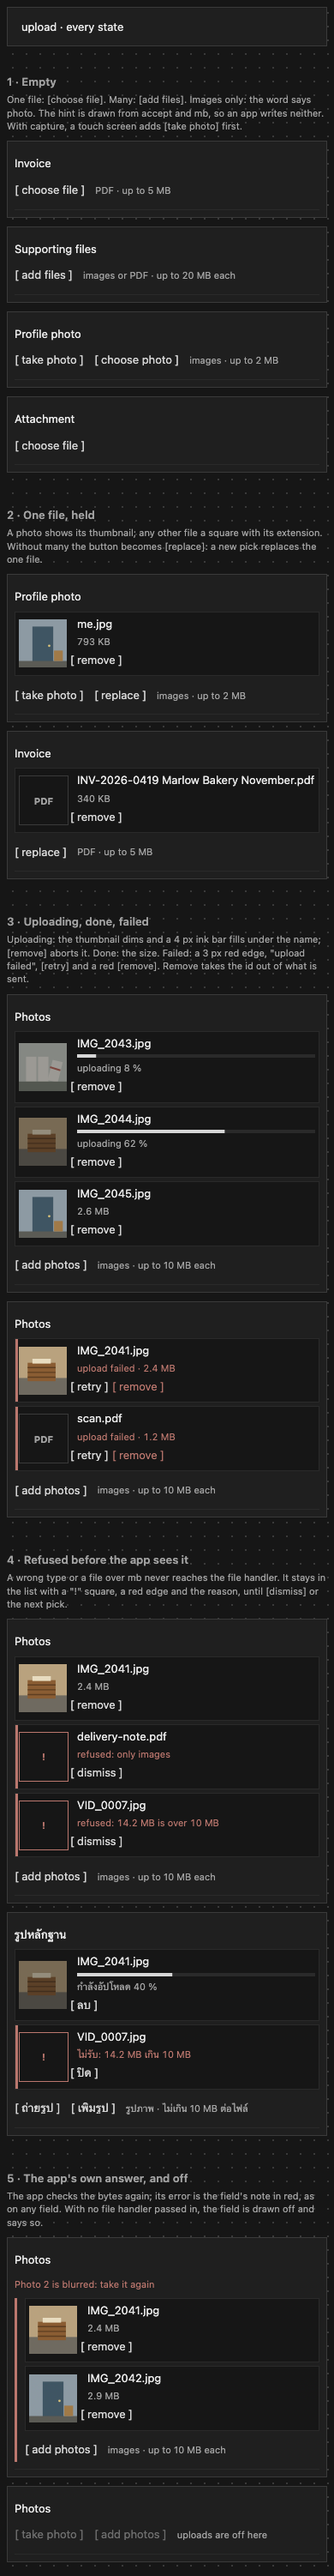
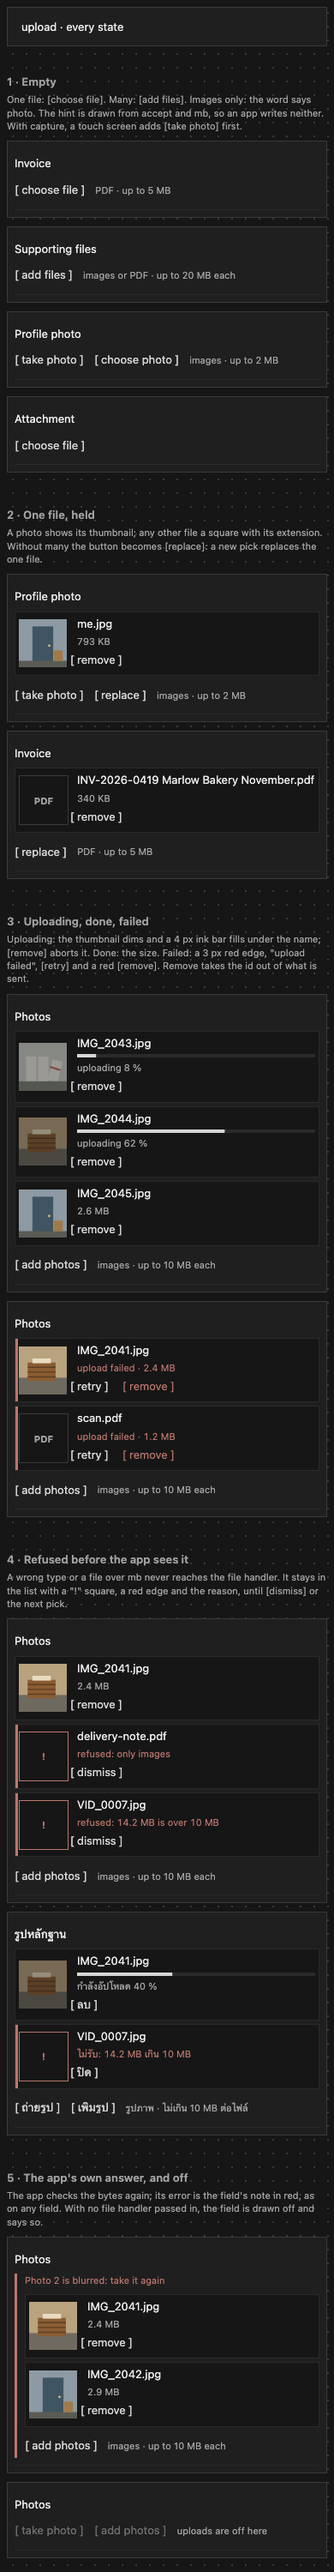
design: upload field (#188): revise q2472: error above the list, buttons stack by the field's width, JS-off hint at the live row's height, wider retry/remove gap

diff --git a/docs/design/upload/upload.css b/docs/design/upload/upload.css
@@ -1,30 +1,32 @@
 /* The upload field: goes into web/src/css/kind/field-upload.css. Tokens only. */
 .fd.up{align-items:start;padding:var(--s2) 0}
 .fd.up>.fu{flex:2}
-.fu{display:flex;flex-direction:column;gap:var(--s2);min-width:0}
+.fu{display:flex;flex-direction:column;gap:var(--s2);min-width:0;container-type:inline-size}
+.fu>.fe{white-space:normal}
 .fuf{list-style:none;margin:0;padding:0;display:flex;flex-direction:column;gap:var(--s1)}
 .fui{display:grid;grid-template-columns:calc(var(--hit) + var(--s3)) minmax(0,1fr) auto;column-gap:var(--s3);align-items:center;padding:var(--s1);background:var(--bg);border:1px solid var(--line);border-radius:var(--radius)}
 .fut{display:block;width:calc(var(--hit) + var(--s3));aspect-ratio:1;object-fit:cover;background:var(--line);border-radius:var(--radius)}
 .fux{display:grid;place-items:center;width:calc(var(--hit) + var(--s3));aspect-ratio:1;border:1px solid var(--edge);color:var(--mute);font-size:var(--fs-meta);font-weight:700;text-transform:uppercase}
 .fum{display:flex;flex-direction:column;gap:var(--s1);min-width:0}
-.fun{white-space:nowrap;overflow:hidden;text-overflow:ellipsis}
+.fun,.fus{white-space:nowrap;overflow:hidden;text-overflow:ellipsis}
 .fus{color:var(--mute);font-size:var(--fs-meta);font-variant-numeric:tabular-nums}
 .fui .pgt{height:var(--s1)}
 .fui.uploading .fut{opacity:.6}
 .fui.failed,.fui.refused{box-shadow:inset 3px 0 0 var(--r)}
-.fui.failed .fus,.fui.refused .fus{color:var(--r);white-space:normal}
+.fui.failed .fus,.fui.refused .fus{color:var(--r)}
 .fui.refused .fux{border-color:var(--r);color:var(--r)}
 .fua{display:flex;gap:var(--s1)}
-.fub{display:flex;flex-wrap:wrap;align-items:center;gap:var(--s1) var(--s3)}
+.fub{display:flex;flex-wrap:wrap;align-items:center;min-height:var(--ctl);gap:var(--s1) var(--s3)}
 .fuh{color:var(--mute);font-size:var(--fs-meta)}
 .fu input[type=file]{position:absolute;width:1px;height:1px;opacity:0;pointer-events:none}
 .fuc{display:none}
 @media (pointer:coarse){.fuc{display:inline-flex}}
-@media (max-width:600px){.fd.up{flex-direction:column;align-items:stretch}.fui>:first-child{grid-row:span 2}.fui{grid-template-columns:calc(var(--hit) + var(--s3)) minmax(0,1fr)}.fua{grid-column:2;justify-content:flex-start;margin-left:-1ch}}
+@container (max-width:440px){.fui{grid-template-columns:calc(var(--hit) + var(--s3)) minmax(0,1fr)}.fui>:first-child{grid-row:span 2}.fua{grid-column:2;justify-content:flex-start;gap:var(--s4);margin-left:-1ch}}
+@media (max-width:600px){.fd.up{flex-direction:column;align-items:stretch}}
+.fd.up.err .fu{box-shadow:inset 3px 0 0 var(--r);padding-left:var(--s3)}
 .say-busy{color:var(--mute);font-size:var(--fs-meta)}
 .say-busy.bad{color:var(--r)}
-/* The static page, JS off: the browser's own file input on the same tokens. */
-.fd input[type=file].sf{font:inherit;font-size:var(--fs);color:var(--mute);background:none;border:0;padding:0;letter-spacing:0}
-.fd input[type=file].sf::file-selector-button{font:inherit;font-size:var(--fs);color:var(--l);background:var(--card);border:1px solid var(--edge);border-radius:var(--radius);height:var(--hit);padding:0 var(--s3);margin-right:var(--s3);text-transform:lowercase}
-.fd.up .fn.err{display:block;color:var(--r);font-size:var(--fs-meta);margin-top:var(--s1)}
-.fd.up.err .fu{box-shadow:inset 3px 0 0 var(--r);padding-left:var(--s3)}
+/* The static page, JS off: the browser's own file input in the same row, at the live button's height, beside the same hint. */
+.fub:has(.sf){flex-wrap:nowrap}.fub:has(.sf) .fuh{flex:none}
+.fu input[type=file].sf{margin:0;position:static;flex:0 1 auto;min-width:0;width:auto;height:var(--ctl);opacity:1;pointer-events:auto;font:inherit;font-size:var(--fs-meta);color:var(--mute);background:none;border:0;padding:0;max-width:100%}
+.fu input[type=file].sf::file-selector-button{font:inherit;font-size:var(--fs);color:var(--l);background:none;border:1px solid var(--edge);border-radius:var(--radius);height:var(--ctl);padding:0 1ch;margin-right:var(--s2);text-transform:lowercase}

diff --git a/docs/design/upload/static.html b/docs/design/upload/static.html
@@ -4,9 +4,9 @@
 <body><main class="scr">
 <div class="top"><div class="tabh"><span class="tw">Marlow Bakery · report a problem</span></div></div>
 <h2>The static page with JS off <small>· the browser's own file input inside the page's own form</small></h2>
-<p class="note">site writes &lt;form method="post" enctype="multipart/form-data"&gt; with &lt;input type="file" name accept capture multiple&gt;, so the browser posts the bytes to the page's own URL. No thumbnails, progress or refusals here: the server checks. The button is the browser's, drawn on the look's tokens; the hint is the same words as the live field.</p>
+<p class="note">site writes &lt;form method="post" enctype="multipart/form-data"&gt; with &lt;input type="file" name accept capture multiple&gt;, so the browser posts the bytes to the page's own URL. No thumbnails, progress or refusals here: the server checks. The button is the browser's, drawn on the look's tokens at the live button's height, with the same hint beside it, so the row keeps its height when the live field takes over.</p>
 <form class="form" method="post" enctype="multipart/form-data" action="#">
-<label class="fd"><span class="fl"><span class="fk">Photos of the problem</span><span class="fn">images · up to 10 MB each</span></span><input class="sf" type="file" name="photos" accept="image/*" capture="environment" multiple></label>
+<div class="fd up"><label class="fl" for="photos"><span class="fk">Photos of the problem</span></label><div class="fu"><div class="fub"><input class="sf" id="photos" type="file" name="photos" accept="image/*" capture="environment" multiple><span class="fuh">images · up to 10 MB each</span></div></div></div>
 <label class="fd"><span class="fl"><span class="fk">What happened</span><span class="fn"></span></span><input name="what" placeholder="two crates short"></label>
 <div class="acts"><button type="submit"><span>send report</span></button></div>
 </form>

diff --git a/docs/design/upload/upload.js b/docs/design/upload/upload.js
@@ -48,6 +48,7 @@ function item(f, x, w) {
 function upload(x, w) {
   const box = el("div", "fu"); box.setAttribute("role", "group");
   const files = x.files || [];
+  if (x.error) box.append(el("span", "fe", x.error));
   box.setAttribute("aria-label", say(w, "group", { label: x.label, n: files.filter(f => f.state !== "refused").length }));
   if (files.length) { const ul = el("ul", "fuf"); files.forEach(f => ul.append(item(f, x, w))); box.append(ul); }
   const image = (x.accept || []).every(a => a === "image") && (x.accept || []).length;
@@ -65,7 +66,7 @@ function upload(x, w) {
 }
 function row(x, w) {
   const l = el(x.type === "upload" ? "div" : "label", "fd" + (x.type === "upload" ? " up" : x.type === "toggle" ? " tg" : "") + (x.error ? " err" : ""));
-  const fl = el("span", "fl"); fl.append(el("span", "fk", x.label), el("span", x.error ? "fn err" : "fn", x.error || x.doc || ""));
+  const fl = el("span", "fl"); fl.append(el("span", "fk", x.label), el("span", "fn", x.doc || ""));
   l.append(fl);
   if (x.type === "upload") l.append(upload(x, w));
   else if (x.type === "toggle") { const i = el("input"); i.type = "checkbox"; i.checked = !!x.value; i.setAttribute("role", "switch"); l.append(i); }

diff --git a/docs/design/upload/README.md b/docs/design/upload/README.md
@@ -1,8 +1,8 @@
 ## Summary
 
-Decision: the upload field is a list of file rows under its label. Each row has a 56 px thumbnail (or a square with the file's extension), the name, one status line (size, "uploading 62 %" over a thin ink bar, "upload failed", or a red "refused: …") and its buttons: [remove], [retry] or [dismiss]. Under the list are [add photos] / [choose file] / [replace] and a hint built from `accept` and `mb`. On a touch screen with `capture`, [take photo] comes first. The submit stays off, with a line saying why, while a file is uploading or failed. With no file handler the field is drawn off. With JS off, the static page shows the browser's own file input. Default look, no new colour.
+Decision: the upload field is a list of file rows under its label. Each row has a 56 px thumbnail (or a square with the file's extension), the name, one status line (size, "uploading 62 %" over a thin ink bar, "upload failed", or a red "refused: …") and its buttons: [remove], [retry] or [dismiss]. When the field itself is narrow (a phone, or a small card), the buttons go under the name, so short names and the status line stay whole. Under the list are [add photos] / [choose file] / [replace] and a hint built from `accept` and `mb`. On a touch screen with `capture`, [take photo] comes first. The submit stays off, with a line saying why, while a file is uploading or failed. With no file handler the field is drawn off. With JS off, the static page shows the browser's own file input with the same hint, in a row as tall as the live one. The app's error sits above the list, in the list's column. Default look, no new colour.
 Screens: a delivery proof form (uploading, empty, failed), a sheet of every state (empty, one file, many, progress, failed, refused for type and for size, Thai, the app's error, off), and the static page next to its live version. Each is drawn light and dark, at 1440 and 390.
-Open questions: (1) On a phone the row stacks under its label, unlike the other fields. Is that OK? (2) This look hides every field's note, so only upload shows the app's error as text. Should other fields do the same later?
+Open questions: none. This round follows the owner's revise q2472.
 
 ## Images
 
@@ -10,14 +10,14 @@ Open questions: (1) On a phone the row stacks under its label, unlike the other 
 |---|---|
 | `proof-light-1440.png`, `proof-dark-1440.png` | delivery's proof form (`usage.md` part 4). (1) Two photos done and one uploading at 62 %: the submit is off and says "waiting for 1 upload". (2) Empty: [add photos] and the hint "images · up to 10 MB each". (3) One photo failed: [retry] and a red [remove], and the submit says "an upload failed: retry or remove it" |
 | `proof-light-390.png`, `proof-dark-390.png` | The same form on a phone. The file list goes full width under its label, and each row's buttons go under the file name. [take photo] comes before [add photos] (it opens the camera through `capture`). [add photos] opens the library |
-| `states-light-*.png`, `states-dark-*.png` | 1 empty: one file, many, images only, no `accept`. 2 one file held: a photo, a PDF with a long name cut off, and [replace]. 3 uploading at 8 % and 62 % (the thumbnail dims), done, failed. 4 refused: the wrong type ("refused: only images") and over the size ("refused: 14.2 MB is over 10 MB"). These rows never reach the handler and stay until [dismiss] or the next pick. Also the same in Thai. 5 the app's own error as the field's red note with a red edge, and the field off with no handler ("uploads are off here") |
-| `static-light-*.png`, `static-dark-*.png` | JS off: the site writes `<form method=post enctype=multipart/form-data>` with a plain `<input type=file accept capture multiple>`, its button styled with the look's tokens. Below it is the same form once the live renderer takes over |
+| `states-light-*.png`, `states-dark-*.png` | At 1440 each case sits in a half-width card, so its rows stack their buttons under the name, the same as on a phone. 1 empty: one file, many, images only, no `accept`. 2 one file held: a photo, a PDF with a long name cut off, and [replace]. 3 uploading at 8 % and 62 % (the thumbnail dims), done, failed. 4 refused: the wrong type ("refused: only images") and over the size ("refused: 14.2 MB is over 10 MB"). These rows never reach the handler and stay until [dismiss] or the next pick. Also the same in Thai. 5 the app's own error in red at the top of the list's column, over a red edge, so the label column and the rows keep their width, and the field off with no handler ("uploads are off here") |
+| `static-light-*.png`, `static-dark-*.png` | JS off: the site writes `<form method=post enctype=multipart/form-data>` with a plain `<input type=file accept capture multiple>`, its button drawn on the look's tokens at the live button's height and the hint beside it. The row is as tall as the live row below it at both widths (61 px at 1440, 71 px at 390), so nothing moves when the live renderer takes over |
 
 ## What impl builds
 
-- `web/src/render/field/upload.ts`: the root is `div.fu` with `role=group`, named by the label and the file count. Inside it is `ul.fuf` > `li.fui.<state>`: `img.fut` (aria-hidden) or `span.fux`, then `span.fum` (`.fun` name, `.pgt` progress bar with `role=progressbar` while uploading, `.fus` status line), then `span.fua` buttons, each named "remove <file name>" and so on. Then `div.fub`: [take photo] `.fuc`, the pick button, the `.fuh` hint, and a hidden `input[type=file]` the buttons click.
+- `web/src/render/field/upload.ts`: the root is `div.fu` with `role=group`, named by the label and the file count. Inside it is `ul.fuf` > `li.fui.<state>`: `img.fut` (aria-hidden) or `span.fux`, then `span.fum` (`.fun` name, `.pgt` progress bar with `role=progressbar` while uploading, `.fus` status line), then `span.fua` buttons, each named "remove <file name>" and so on. An app error is `span.fe` first in `div.fu`, above the list. Then `div.fub`: [take photo] `.fuc`, the pick button, the `.fuh` hint, and a hidden `input[type=file]` the buttons click.
 - `busy()` is true while any row is uploading or failed. The form turns the submit off and writes the `.say-busy` line.
 - The words (choose file, add files, add photos, choose photo, take photo, replace, remove, retry, dismiss, the hint, uploading, failed, the two refusals, off, the two busy lines) go in the field's words table in English and Thai. Their text is in `upload.js` here.
-- `upload.css` here (tokens only) goes into the stylesheet folder. It reuses `.fd`, `.fn`, `.pgt` and the button. The camera button shows on `(pointer:coarse)`. In these previews it shows at 390 wide instead, since headless Chromium has no touch.
+- `upload.css` here (tokens only) goes into the stylesheet folder. It reuses `.fd`, `.fn`, `.pgt` and the button. `div.fu` is a size container. Below 440 px of its own width a row puts its buttons under the name (a container query, not a screen width). The camera button shows on `(pointer:coarse)`. The static page reuses `.fd.up > .fu > .fub` with `input.sf` and `.fuh`. In these previews it shows at 390 wide instead, since headless Chromium has no touch.
 - `page.css` and `upload.js` are only for these previews, like in `docs/design/steps`. Run `./render.sh` to make the images (Playwright's cached headless Chromium, light and dark, reduced motion). The photos are three small SVGs in this folder.
 - A multi-field form with a submit is drawn here as a card with the submit at the bottom right. How such a form is laid out is not part of this issue.
